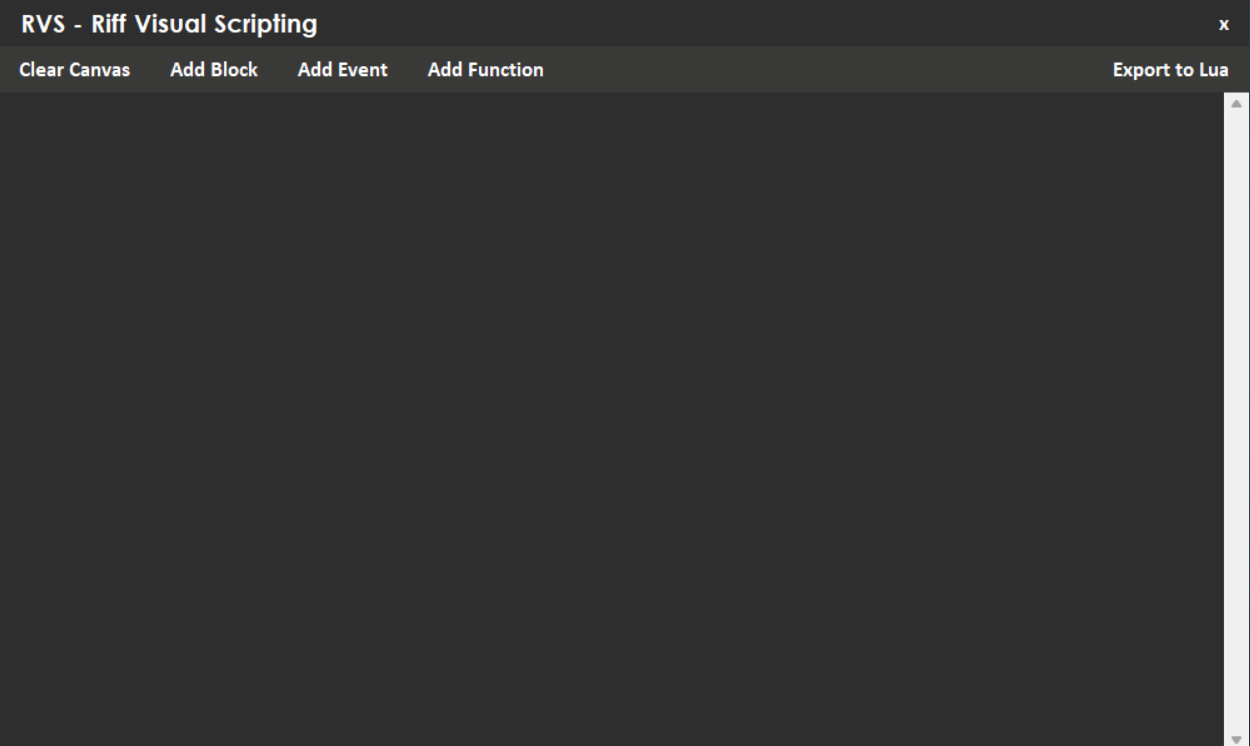
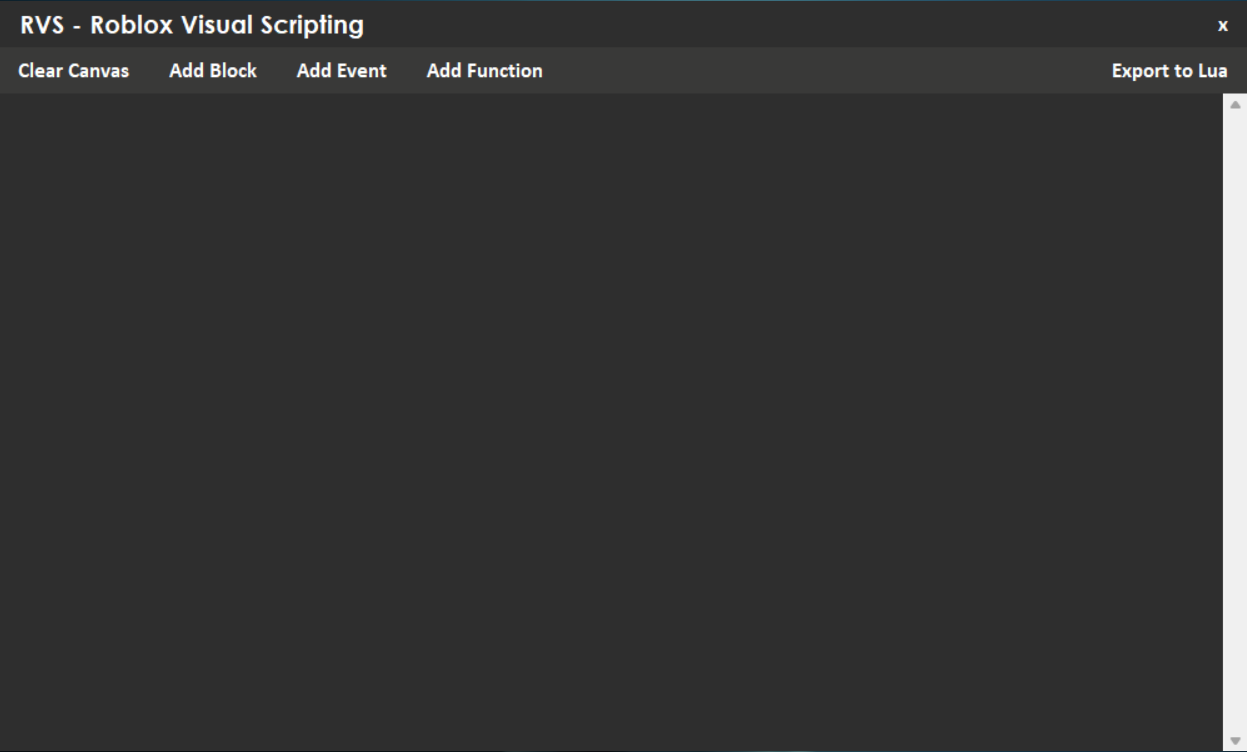
update

diff --git a/main.py b/main.py
@@ -276,7 +276,7 @@ def DestroyAllWindows():
     exit(1)
 
 Main_Window = Frame(master=window, height="30", bg="#2e2e2e")
-Title_Label = Label(Main_Window, text="RVS - Riff Visual Scripting", fg="white", bg="#2e2e2e", font=Title_Font, padx=15)
+Title_Label = Label(Main_Window, text="RVS - Roblox Visual Scripting", fg="white", bg="#2e2e2e", font=Title_Font, padx=15)
 Close_Button = Button(Main_Window, text="x", fg="white", padx=10, bg="#2e2e2e", relief=FLAT, font=Title_Icon_Font, command=DestroyAllWindows)
 
 Middle_Window = Frame(window, bg="#393938", height="30")
